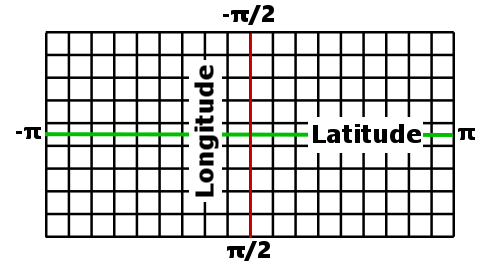
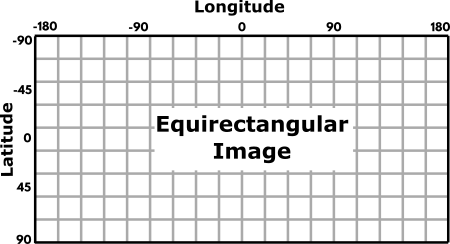
- improved equirectangular image graphic

diff --git a/main/boofcv-geo/src/boofcv/alg/distort/spherical/EquirectangularTools_F32.java b/main/boofcv-geo/src/boofcv/alg/distort/spherical/EquirectangularTools_F32.java
@@ -48,7 +48,8 @@ import georegression.struct.point.Point3D_F32;
  * <li>unit sphere of (0,1,0) is pixel (3*width/4,(height-1)/2) and (0,0,-1) is (width/4,(height-1)/2)</li>
  * </ul>
  *
- * <p>Latitude and Longitude shown on a sphere in equirectangular format.  Note that y is NOT flipped.</p>
+ * <p>Latitude and Longitude shown on a sphere in equirectangular format.  Note that y is NOT flipped and angles
+ * are shown in degrees not radians.</p>
  * <center>
  * <img src="doc-files/equirectangular_lat_lon.png"/>
  * </center>

diff --git a/main/boofcv-geo/src/boofcv/alg/distort/spherical/EquirectangularTools_F64.java b/main/boofcv-geo/src/boofcv/alg/distort/spherical/EquirectangularTools_F64.java
@@ -48,7 +48,8 @@ import georegression.struct.point.Point3D_F64;
  * <li>unit sphere of (0,1,0) is pixel (3*width/4,(height-1)/2) and (0,0,-1) is (width/4,(height-1)/2)</li>
  * </ul>
  *
- * <p>Latitude and Longitude shown on a sphere in equirectangular format.  Note that y is NOT flipped.</p>
+ * <p>Latitude and Longitude shown on a sphere in equirectangular format.  Note that y is NOT flipped and angles
+ * are shown in degrees not radians.</p>
  * <center>
  * <img src="doc-files/equirectangular_lat_lon.png"/>
  * </center>
